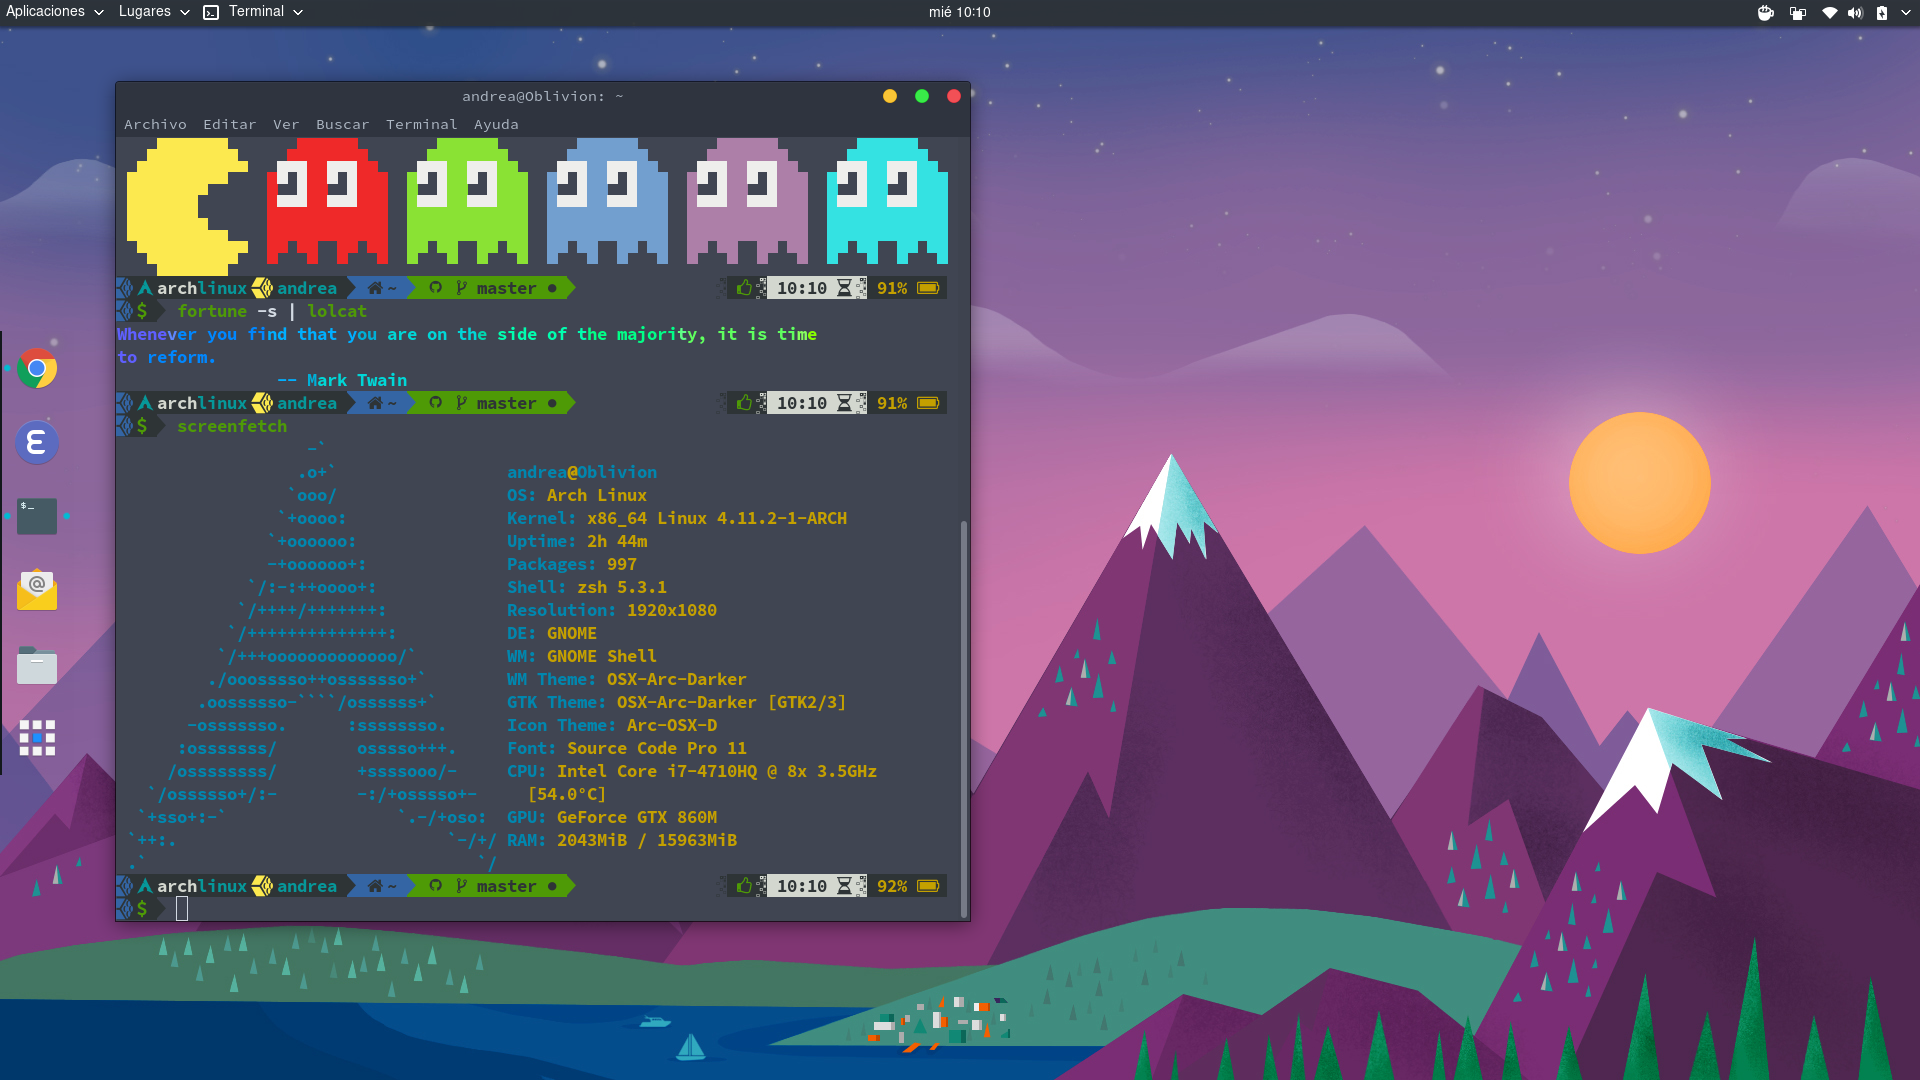
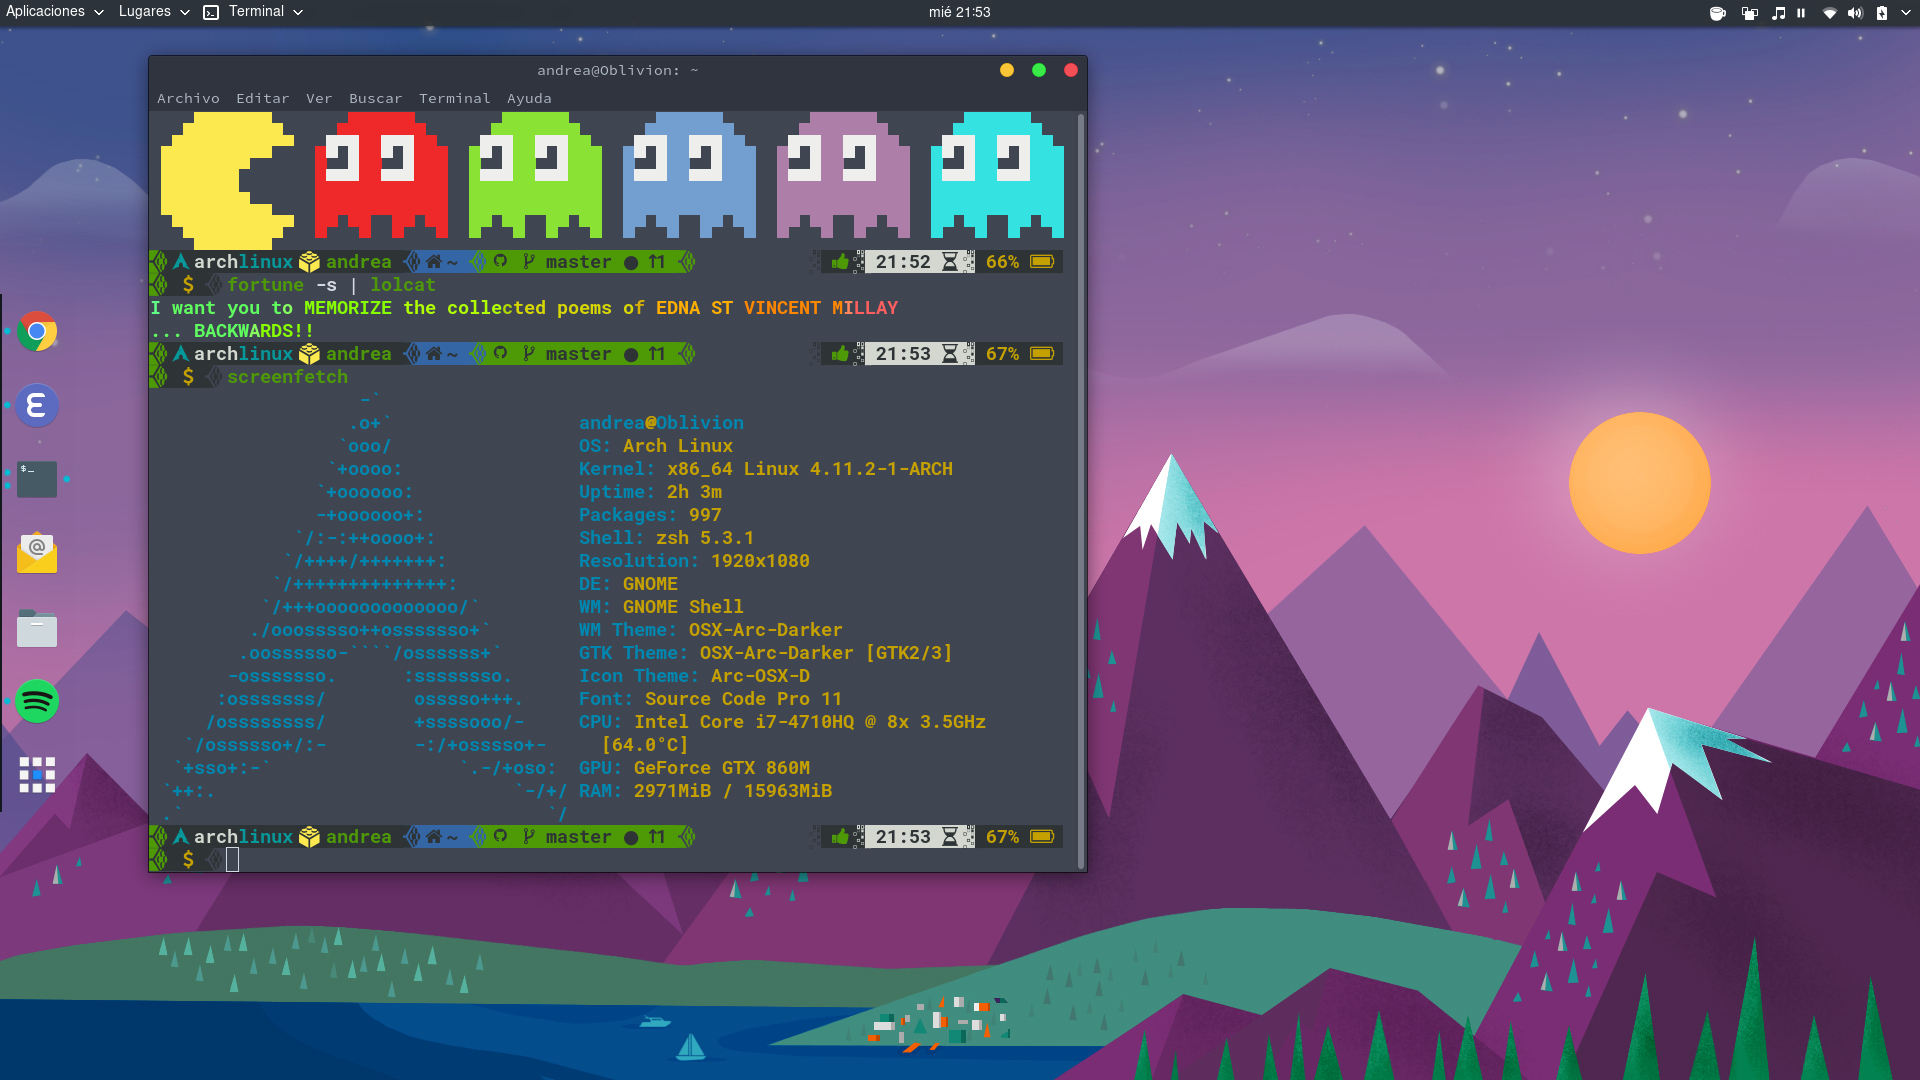
Modified the separator for Lego's

Changed region(s): [[0.0, 0.0306, 0.5938, 0.8556], [0.9062, 0.0, 0.9375, 0.0306]]

diff --git a/README.md b/README.md
@@ -1,5 +1,5 @@
 # dotfiles
 
-Here you can download my .emacs, .zshrc and other configs!
+A place for my .emacs, .zshrc and other configs...
 
 ![Zsh config](https://github.com/da-edra/dotfiles/blob/master/.zshrc.png)
